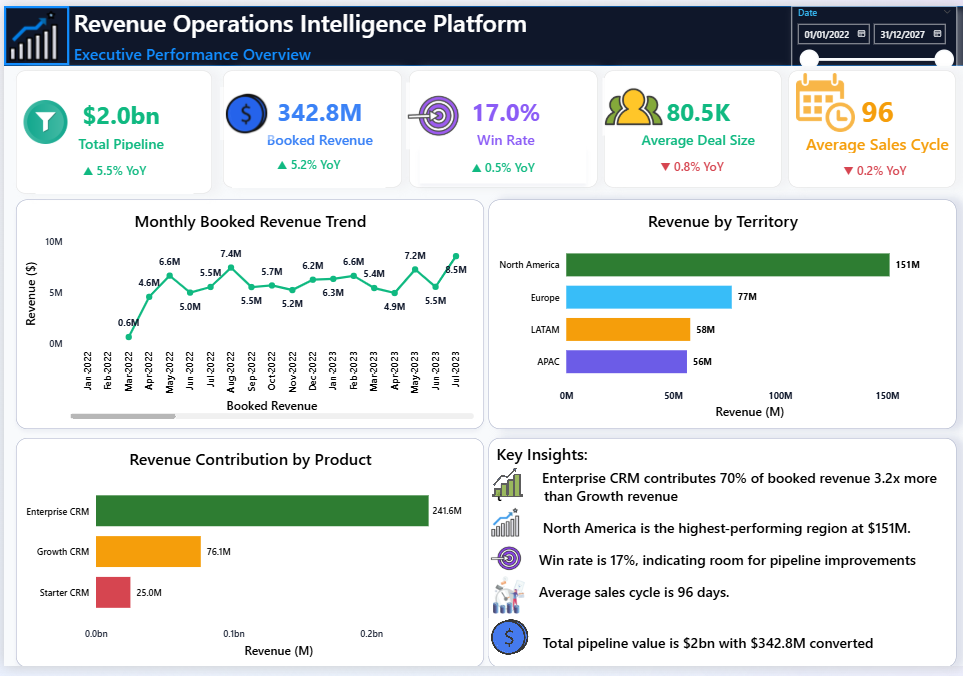
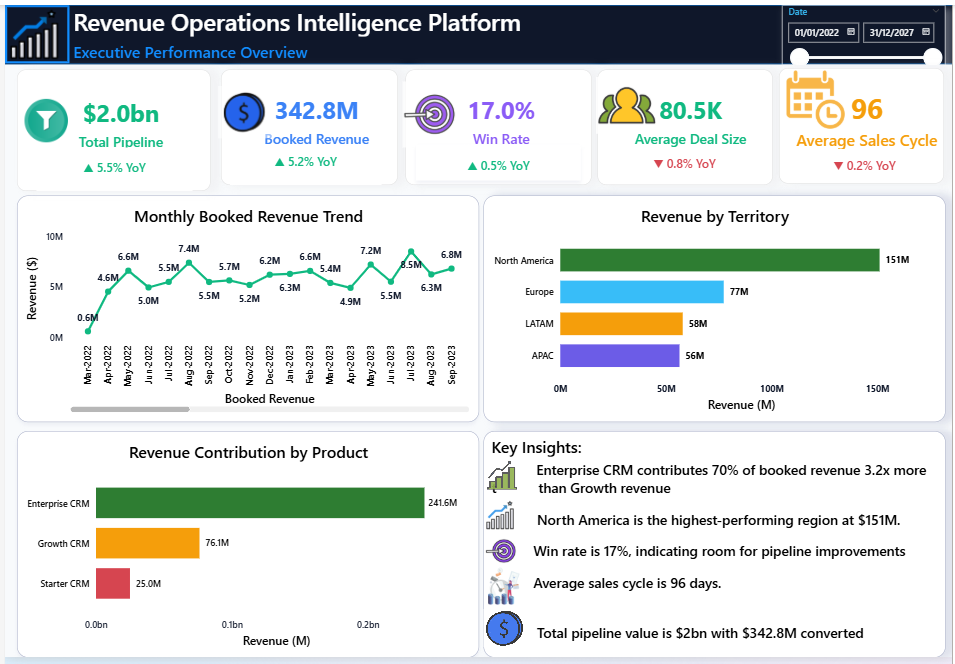
Standardize dashboard timeline and update screenshots

diff --git a/README.md b/README.md
@@ -3,18 +3,14 @@
 ## 📌 Project Highlights
 
 - 📈 100,000 Leads Analyzed
+- 🎯 25,000 Opportunities Evaluated
+- 👥 10,000 Customers Modeled
 - 💰 $2.0B Revenue Pipeline
 - 🏆 $342.8M Revenue Generated
-- 👥 10,000 Customers
-- 🎯 17.0% Win Rate
 - 📊 4 Executive Dashboards
+- ⚡ PostgreSQL Data Warehouse
+- 📈 Power BI Executive Analytics Platform
 
-
-<p align="center">
-  <img src="assets/architecture.png" width="850">
-</p>
-
-<p align="center">
 
 ![Power BI](https://img.shields.io/badge/Power%20BI-Dashboard-F2C811?logo=powerbi&logoColor=black)
 ![PostgreSQL](https://img.shields.io/badge/PostgreSQL-Data%20Warehouse-336791?logo=postgresql&logoColor=white)
@@ -45,6 +41,31 @@ The solution enables executives to:
 ✅ Assess product contribution to revenue
 
 ✅ Support data-driven revenue decisions
+
+---
+
+# 🎯 Business Impact
+
+The Revenue Operations Intelligence Platform provides a single source of truth across Marketing, Sales, and Customer Intelligence.
+
+The solution enables revenue leaders to:
+
+- Identify funnel leakage across the Lead → MQL → SQL → Won lifecycle
+- Evaluate sales rep productivity and conversion effectiveness
+- Benchmark territory-level performance
+- Understand customer and product revenue concentration
+- Monitor executive KPIs through interactive dashboards
+
+## Outcomes Delivered
+
+| Metric | Value |
+|---------|---------:|
+| Leads Analyzed | 100,000 |
+| Opportunities Evaluated | 25,000 |
+| Customers Modeled | 10,000 |
+| Revenue Pipeline | $2.0B |
+| Revenue Generated | $342.8M |
+| Win Rate | 17.0% |
 
 ---
 
@@ -86,6 +107,38 @@ Power BI Semantic Model
 Executive Analytics Platform
 ```
 
+# 🗄 Data Model
+
+<p align="center">
+  <img src="assets/data_model.png" width="1000">
+</p>
+
+The platform follows a Star Schema design optimized for analytical reporting and time intelligence calculations.
+
+### Fact Tables
+
+| Table | Purpose |
+|---------|---------|
+| fact_leads | Lead generation and funnel activity |
+| fact_opportunities | Revenue and pipeline tracking |
+
+### Dimension Tables
+
+| Table | Purpose |
+|---------|---------|
+| dim_customer | Customer attributes |
+| dim_product | Product catalog |
+| dim_sales_rep | Sales representative information |
+| dim_date | Time intelligence and reporting calendar |
+
+### Model Design Principles
+
+- Star Schema architecture
+- Single-direction filtering
+- Optimized DAX performance
+- Time intelligence enabled
+- Scalable analytical structure
+
 ---
 
 # ⚙ Technology Stack
@@ -103,25 +156,38 @@ Executive Analytics Platform
 
 ---
 
-# 🗄 Data Warehouse Design
+# 🛠 Skills Demonstrated
 
-## Fact Tables
+### Revenue Operations
 
-| Table | Description |
-|---------|-------------|
-| fact_leads | Lead generation and marketing funnel data |
-| fact_opportunities | Pipeline, revenue, and sales performance |
+- Revenue Analytics
+- Funnel Performance Analysis
+- Pipeline Management
+- Conversion Optimization
+- Territory Performance
 
----
+### Business Intelligence
 
-## Dimension Tables
+- Executive KPI Reporting
+- Dashboard Development
+- Data Visualization
+- Insight Generation
 
-| Table | Description |
-|---------|-------------|
-| dim_customer | Customer attributes |
-| dim_product | Product catalog |
-| dim_sales_rep | Sales representatives |
-| dim_date | Time intelligence |
+### Data Engineering
+
+- ETL Development
+- PostgreSQL
+- SQL Analytics
+- Data Warehousing
+- Dimensional Modeling
+
+### Power BI
+
+- DAX
+- Time Intelligence
+- Star Schema Design
+- Dynamic Insights
+- Performance Optimization
 
 ---
 
@@ -248,6 +314,73 @@ The platform is structured into four executive dashboards:
 
 ---
 
+# 🔍 SQL Analytics Examples
+
+### Territory Revenue Analysis
+
+```sql
+SELECT
+    territory,
+    SUM(actual_revenue) AS revenue
+FROM fact_opportunities
+WHERE won = TRUE
+GROUP BY territory
+ORDER BY revenue DESC;
+```
+
+### Funnel Conversion Analysis
+```
+SELECT
+    lead_source,
+    COUNT(*) AS leads,
+    SUM(CASE WHEN mql_flag THEN 1 ELSE 0 END) AS mqls,
+    SUM(CASE WHEN sql_flag THEN 1 ELSE 0 END) AS sqls,
+    SUM(CASE WHEN converted THEN 1 ELSE 0 END) AS converted
+FROM fact_leads
+GROUP BY lead_source;
+```
+
+---
+
+# ⚡DAX Measure Examples
+
+### Win Rate
+
+```DAX
+Win Rate =
+DIVIDE(
+    [Won Deals],
+    [Total Opportunities]
+)
+```
+
+### Average Deal Size
+```
+Average Deal Size =
+DIVIDE(
+    [Total Revenue],
+    [Won Deals]
+)
+```
+### Revenue YoY %
+```
+Revenue YoY % =
+DIVIDE(
+    [Total Revenue] - [Revenue LY],
+    [Revenue LY]
+)
+```
+### Lead → Won Conversion
+```
+Lead to Won Conversion % =
+DIVIDE(
+    [Won Deals],
+    [Total Leads]
+)
+```
+---
+
+
 # 📈 Revenue Funnel Summary
 
 | Metric | Value |
@@ -330,14 +463,13 @@ Revenue-Operations-Intelligence-Platform/
 │   ├── page3.png
 │   └── page4.png
 │
-├── data/
-│   ├── raw/
-│   └── processed/
+├── dashboard/
+│   └── Revenue_Operations_Intelligence.pbix
 │
 ├── sql/
 │   ├── schema.sql
-│   ├── views/
-│   └── kpis/
+│   ├── create_views.sql
+│   └── revenue_kpis.sql
 │
 ├── src/
 │   ├── generate_customers.py
@@ -345,8 +477,9 @@ Revenue-Operations-Intelligence-Platform/
 │   ├── generate_opportunities.py
 │   └── etl/
 │
-├── dashboard/
-│   └── Revenue_Operations_Intelligence.pbix
+├── data/
+│   ├── raw/
+│   └── processed/
 │
 ├── requirements.txt
 └── README.md
@@ -372,9 +505,9 @@ Revenue-Operations-Intelligence-Platform/
 
 Business Intelligence • Revenue Analytics • Commercial Intelligence • Data Analytics
 
-🔗 LinkedIn: 
+🔗 LinkedIn: [www.linkedin.com/in/abodunrin-oketade](http://www.linkedin.com/in/abodunrin-oketade)
 
-🔗 GitHub: 
+🔗 GitHub: https://github.com/Richie-Rokka
 
 ---
 
